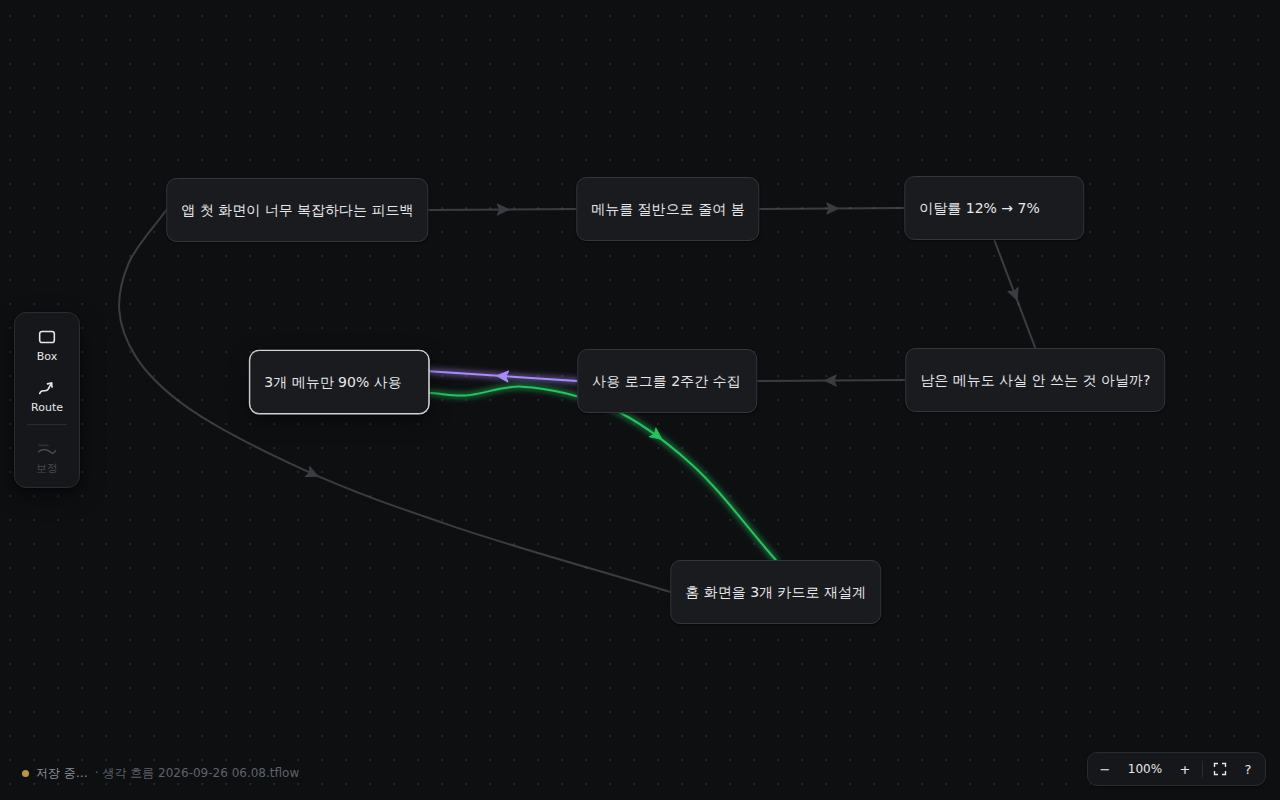
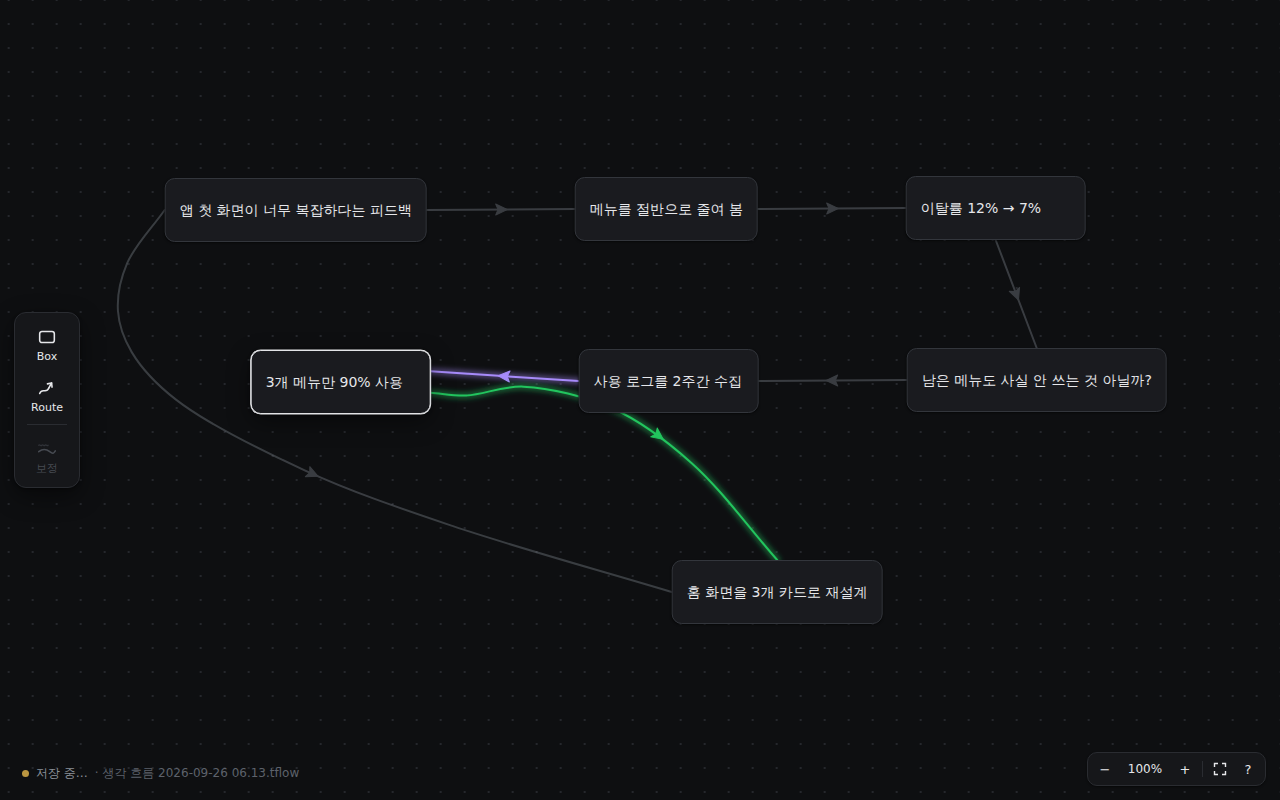
ThoughtFlow: 생각 창을 오른쪽으로 이동
- 창을 화면 오른쪽에 붙이고 Board 영역이 그 왼쪽을 차지하도록 변경
- Board 좌표 기준점(왼쪽 끝)이 움직이지 않으므로 창을 열고 닫을 때의 pan 보정 제거
- 너비 조절은 창의 왼쪽 가장자리, 보고 있는 Box 표시는 창 쪽(오른쪽) 가장자리로
- 창에 일부 가려진 Box를 클릭하면 전체가 보이도록 옮기는 동작을 e2e로 검증
- README/설계 문서/스크린샷 갱신

Claude-Session: https://claude.ai/code/session_01Hu5miiY1z1NtKTy2h54n5v

diff --git a/thoughtflow/src/store/store.ts b/thoughtflow/src/store/store.ts
@@ -29,7 +29,7 @@ export interface AppState extends History {
   /** 그리는 중인 Route (world 좌표) + 놓으면 연결될 Box */
   draft: (RouteDraft & { targetNodeId: string | null }) | null;
 
-  // ── 왼쪽 창 (Box별 생각 메모) ──
+  // ── 오른쪽 창 (Box별 생각 메모) ──
   panelOpen: boolean;
   /** 사용자가 창을 닫았으면 true → 클릭으로는 다시 열지 않고, 더블클릭으로만 연다 */
   panelDismissed: boolean;
@@ -321,10 +321,10 @@ export const useStore = create<AppState>()((set, get) => ({
     if (!s.panelOpen && s.panelDismissed && !opts.force) return;
     const tabs = s.tabs.includes(id) ? s.tabs : [...s.tabs, id];
     if (!s.panelOpen) {
-      // 창이 Board 왼쪽을 차지해도 Board 내용이 화면에서 움직이지 않도록 pan 보정
+      // 창은 Board 오른쪽을 차지한다. Board 왼쪽 끝은 그대로라 내용이 움직이지 않는다.
+      // (boardSize는 ResizeObserver가 곧 갱신하지만, 바로 아래 ensureVisible이 새 크기를 쓰도록 미리 반영)
       set({
         panelOpen: true,
-        viewport: { ...s.viewport, panX: s.viewport.panX - s.panelWidth },
         boardSize: { ...s.boardSize, width: Math.max(1, s.boardSize.width - s.panelWidth) },
       });
     }
@@ -341,7 +341,6 @@ export const useStore = create<AppState>()((set, get) => ({
     if (!s.panelOpen) return;
     set({
       panelOpen: false,
-      viewport: { ...s.viewport, panX: s.viewport.panX + s.panelWidth },
       boardSize: { ...s.boardSize, width: s.boardSize.width + s.panelWidth },
     });
   },
@@ -366,12 +365,7 @@ export const useStore = create<AppState>()((set, get) => ({
     if (!d) return;
     set({
       panelWidth: w,
-      ...(s.panelOpen
-        ? {
-            viewport: { ...s.viewport, panX: s.viewport.panX - d },
-            boardSize: { ...s.boardSize, width: Math.max(1, s.boardSize.width - d) },
-          }
-        : {}),
+      ...(s.panelOpen ? { boardSize: { ...s.boardSize, width: Math.max(1, s.boardSize.width - d) } } : {}),
     });
   },
   setPanelDismissed: (panelDismissed) => set({ panelDismissed }),

diff --git a/thoughtflow/src/styles.css b/thoughtflow/src/styles.css
@@ -46,11 +46,11 @@ body,
   height: 100%;
 }
 
-/* 왼쪽 창이 열리면 Board 영역은 그 오른쪽을 차지한다 */
+/* 오른쪽 창이 열리면 Board 영역은 그 왼쪽을 차지한다 */
 .board-area {
   position: absolute;
   top: 0;
-  right: 0;
+  left: 0;
   bottom: 0;
 }
 
@@ -499,15 +499,15 @@ svg.layer {
   opacity: 0.3;
 }
 
-/* 왼쪽 창에서 보고 있는 Box: 왼쪽 가장자리에 밝은 막대 */
+/* 오른쪽 창에서 보고 있는 Box: 창 쪽(오른쪽) 가장자리에 밝은 막대 */
 .box.is-active-page::after {
   content: '';
   position: absolute;
-  left: -1px;
+  right: -1px;
   top: 10px;
   bottom: 10px;
   width: 3px;
-  border-radius: 0 3px 3px 0;
+  border-radius: 3px 0 0 3px;
   background: var(--ink);
   opacity: 0.85;
 }
@@ -527,17 +527,17 @@ svg.layer {
   pointer-events: none;
 }
 
-/* ───────────── 왼쪽 창 ───────────── */
+/* ───────────── 오른쪽 창 ───────────── */
 
 .side-panel {
   position: absolute;
-  left: 0;
+  right: 0;
   top: 0;
   bottom: 0;
   display: flex;
   flex-direction: column;
   background: var(--panel-2);
-  border-right: 1px solid var(--panel-border);
+  border-left: 1px solid var(--panel-border);
   z-index: 20;
 }
 
@@ -800,7 +800,7 @@ svg.layer {
 .panel-resize {
   position: absolute;
   top: 0;
-  right: -4px;
+  left: -4px;
   bottom: 0;
   width: 8px;
   cursor: col-resize;

diff --git a/thoughtflow/src/components/SidePanel.tsx b/thoughtflow/src/components/SidePanel.tsx
@@ -4,7 +4,7 @@ import type { BoxNode, Doc } from '../model/types';
 import { nodeMatches, useStore } from '../store/store';
 
 /**
- * 왼쪽 창: Box 하나에 대한 긴 생각을 쓰는 곳.
+ * 오른쪽 창: Box 하나에 대한 긴 생각을 쓰는 곳.
  *  - 윗부분: 연 Box들이 탭으로 한 줄 나열 → 클릭하면 그 Box의 창으로 전환
  *  - 제목(= Box에 보이는 글), 들어온/나간 흐름, 메모
  *  - × 로 닫으면, 다시 열 때는 Box 더블클릭
@@ -295,7 +295,8 @@ function ResizeHandle() {
         e.preventDefault();
         const el = e.currentTarget;
         el.setPointerCapture(e.pointerId);
-        const move = (ev: PointerEvent) => useStore.getState().setPanelWidth(ev.clientX);
+        // 창은 화면 오른쪽 끝에 붙어 있으므로, 왼쪽 가장자리를 끌면 너비 = 화면 폭 - 마우스 x
+        const move = (ev: PointerEvent) => useStore.getState().setPanelWidth(window.innerWidth - ev.clientX);
         const up = () => {
           el.removeEventListener('pointermove', move);
           el.removeEventListener('pointerup', up);

diff --git a/thoughtflow/src/interaction/useBoardInteraction.ts b/thoughtflow/src/interaction/useBoardInteraction.ts
@@ -226,7 +226,7 @@ export function useBoardInteraction(boardRef: RefObject<HTMLDivElement | null>) 
         if (!g.moved && g.clearOnClick) s.select(null);
       } else if (g.kind === 'movingNode') {
         if (g.moved) s.commitFrom(g.startDoc);
-        // 그냥 클릭: 왼쪽 창에 이 Box의 생각을 연다 (사용자가 창을 닫아 두었으면 열지 않음)
+        // 그냥 클릭: 오른쪽 창에 이 Box의 생각을 연다 (사용자가 창을 닫아 두었으면 열지 않음)
         else s.openPage(g.nodeId);
       } else if (g.kind === 'pressArrow') {
         s.reverseEdge(g.edgeId);

diff --git a/thoughtflow/src/components/ZoomControls.tsx b/thoughtflow/src/components/ZoomControls.tsx
@@ -43,7 +43,7 @@ export function ZoomControls() {
 
 const HELP: [string, string][] = [
   ['Box 만들기', 'Box를 Board로 끌어다 놓기 · 빈 곳 더블클릭'],
-  ['생각 쓰기', 'Box 클릭 → 왼쪽 창에 자유롭게 쓰기'],
+  ['생각 쓰기', 'Box 클릭 → 오른쪽 창에 자유롭게 쓰기'],
   ['창 닫기/열기', '창의 × 로 닫기 · Box 더블클릭으로 다시 열기'],
   ['창 전환', '창 위쪽 탭 클릭 · 들어온/나간 흐름 클릭'],
   ['Box 글 바로 고치기', 'Box 선택 후 Enter  /  완료 Esc  /  다음 Box Tab'],

diff --git a/thoughtflow/src/persistence/fileFormat.ts b/thoughtflow/src/persistence/fileFormat.ts
@@ -4,7 +4,7 @@
  * {
  *   "format": "thoughtflow", "version": 1,
  *   "board": { "zoom", "panX", "panY" },
- *   "nodes": [{ "id", "x", "y", "width", "height", "text", "note" }],   // note = 왼쪽 창의 메모 (v2)
+ *   "nodes": [{ "id", "x", "y", "width", "height", "text", "note" }],   // note = 오른쪽 창의 메모 (v2)
  *   "edges": [{ "id", "sourceNodeId", "targetNodeId",
  *               "sourceAnchor": { "side" }, "targetAnchor": { "side" },
  *               "pathPoints": [[u, v], ...],   // Chord 좌표 (source → target 순서)

diff --git a/thoughtflow/src/interaction/editing.ts b/thoughtflow/src/interaction/editing.ts
@@ -1,6 +1,6 @@
 /**
  * 텍스트 편집 중이면 편집기를 blur 시켜 내용을 commit 한다.
- * (Box 안의 편집기, 왼쪽 창의 제목/메모 입력칸)
+ * (Box 안의 편집기, 오른쪽 창의 제목/메모 입력칸)
  * 다른 명령(삭제, Undo, 저장, 열기 …)을 실행하기 전에 항상 호출한다.
  */
 export function flushEditing() {

diff --git a/thoughtflow/src/App.tsx b/thoughtflow/src/App.tsx
@@ -37,7 +37,7 @@ export function App() {
   return (
     <div className="app">
       <SidePanel />
-      <div className="board-area" style={{ left: panelOpen ? panelWidth : 0 }}>
+      <div className="board-area" style={{ right: panelOpen ? panelWidth : 0 }}>
         <Board />
         <Toolbar />
         <ZoomControls />

diff --git a/thoughtflow/src/components/BoxView.tsx b/thoughtflow/src/components/BoxView.tsx
@@ -13,7 +13,7 @@ interface Props {
   dropTarget: boolean;
   /** 검색 중: 일치(match) / 불일치(dim) / 검색 아님(null) */
   search: 'match' | 'dim' | null;
-  /** 왼쪽 창에서 보고 있는 Box */
+  /** 오른쪽 창에서 보고 있는 Box */
   active: boolean;
 }
 

diff --git a/thoughtflow/src/model/types.ts b/thoughtflow/src/model/types.ts
@@ -14,7 +14,7 @@ export interface BoxNode {
   height: number;
   /** Box에 보이는 짧은 내용 (제목) */
   text: string;
-  /** 왼쪽 창에서 쓰는 긴 생각 메모 */
+  /** 오른쪽 창에서 쓰는 긴 생각 메모 */
   note: string;
 }
 

diff --git a/thoughtflow/docs/DESIGN.md b/thoughtflow/docs/DESIGN.md
@@ -210,18 +210,18 @@ Phase 1 기본 구조 · Infinite Board · Zoom/Pan → 2 Box → 3 Box↔Box Ro
 
 ---
 
-## v0.2 — 왼쪽 창 · 탭 · 검색 · 자동 저장 · 검은색 테마
+## v0.2 — 오른쪽 창 · 탭 · 검색 · 자동 저장 · 검은색 테마
 
 ### 데이터
-- `BoxNode.note: string` 추가 (Box에 보이는 `text`와 별개로, 왼쪽 창에서 쓰는 긴 메모).
+- `BoxNode.note: string` 추가 (Box에 보이는 `text`와 별개로, 오른쪽 창에서 쓰는 긴 메모).
 - 파일 형식 `version: 2`. v1 파일은 `note = ''`로 읽는다. v2 파일을 v1 앱이 조용히 잘못 읽지 않도록 버전을 올렸다.
 
-### 왼쪽 창 (SidePanel)
+### 오른쪽 창 (SidePanel)
 - 상태: `panelOpen`, `panelDismissed`, `tabs`(연 순서), `activeTab`, `panelWidth`.
 - **클릭** = 창 열기(+ 탭 추가/전환). 사용자가 **×로 닫으면** `panelDismissed = true` → 이후 클릭으로는 열리지 않고 **더블클릭**으로만 다시 열린다(더블클릭은 메모 입력칸에 커서까지).
   → 창 없이 Board만 보며 작업하고 싶을 때 클릭할 때마다 창이 튀어나오지 않는다.
 - 탭 = 창에서 연 Box들(브라우저 탭처럼). 탭 클릭 → 그 Box의 창으로 전환 + Board에서 선택, ×/휠 버튼으로 닫기. 넘치면 휠로 가로 스크롤.
-- 창은 Board 왼쪽을 차지(docked)한다. 열고 닫거나 너비를 바꿀 때 `panX`를 창 너비만큼 보정해 **Board 내용이 화면에서 움직이지 않는다**. 보고 있는 Box가 창/도구 막대에 가려지면 Board 가운데로 옮긴다.
+- 창은 화면 오른쪽에 붙어(docked) Board 영역의 오른쪽을 차지한다. Board의 왼쪽 끝(좌표 기준점)은 그대로이므로 창을 열고 닫거나 너비를 바꿔도 **Board 내용이 화면에서 움직이지 않는다**(처음에는 왼쪽 창이었고 pan 보정이 필요했지만, 오른쪽으로 옮기면서 필요 없어졌다). 보고 있는 Box가 창이나 도구 막대에 가려지면 Board 가운데로 옮긴다. 너비는 창의 왼쪽 가장자리를 끌어 조절한다.
 - 창 안: 제목(= Box `text`, 실시간 반영), 들어온/나간 흐름 칩(보라/초록, 클릭하면 그 생각으로 이동), 메모.
 - **Undo 묶음**: 입력칸에 머무는 동안의 변경은 live로 반영하고, 입력칸을 떠날 때 시작 시점 Doc을 한 번만 기록 → 글자마다 Undo가 쌓이지 않는다.
 
